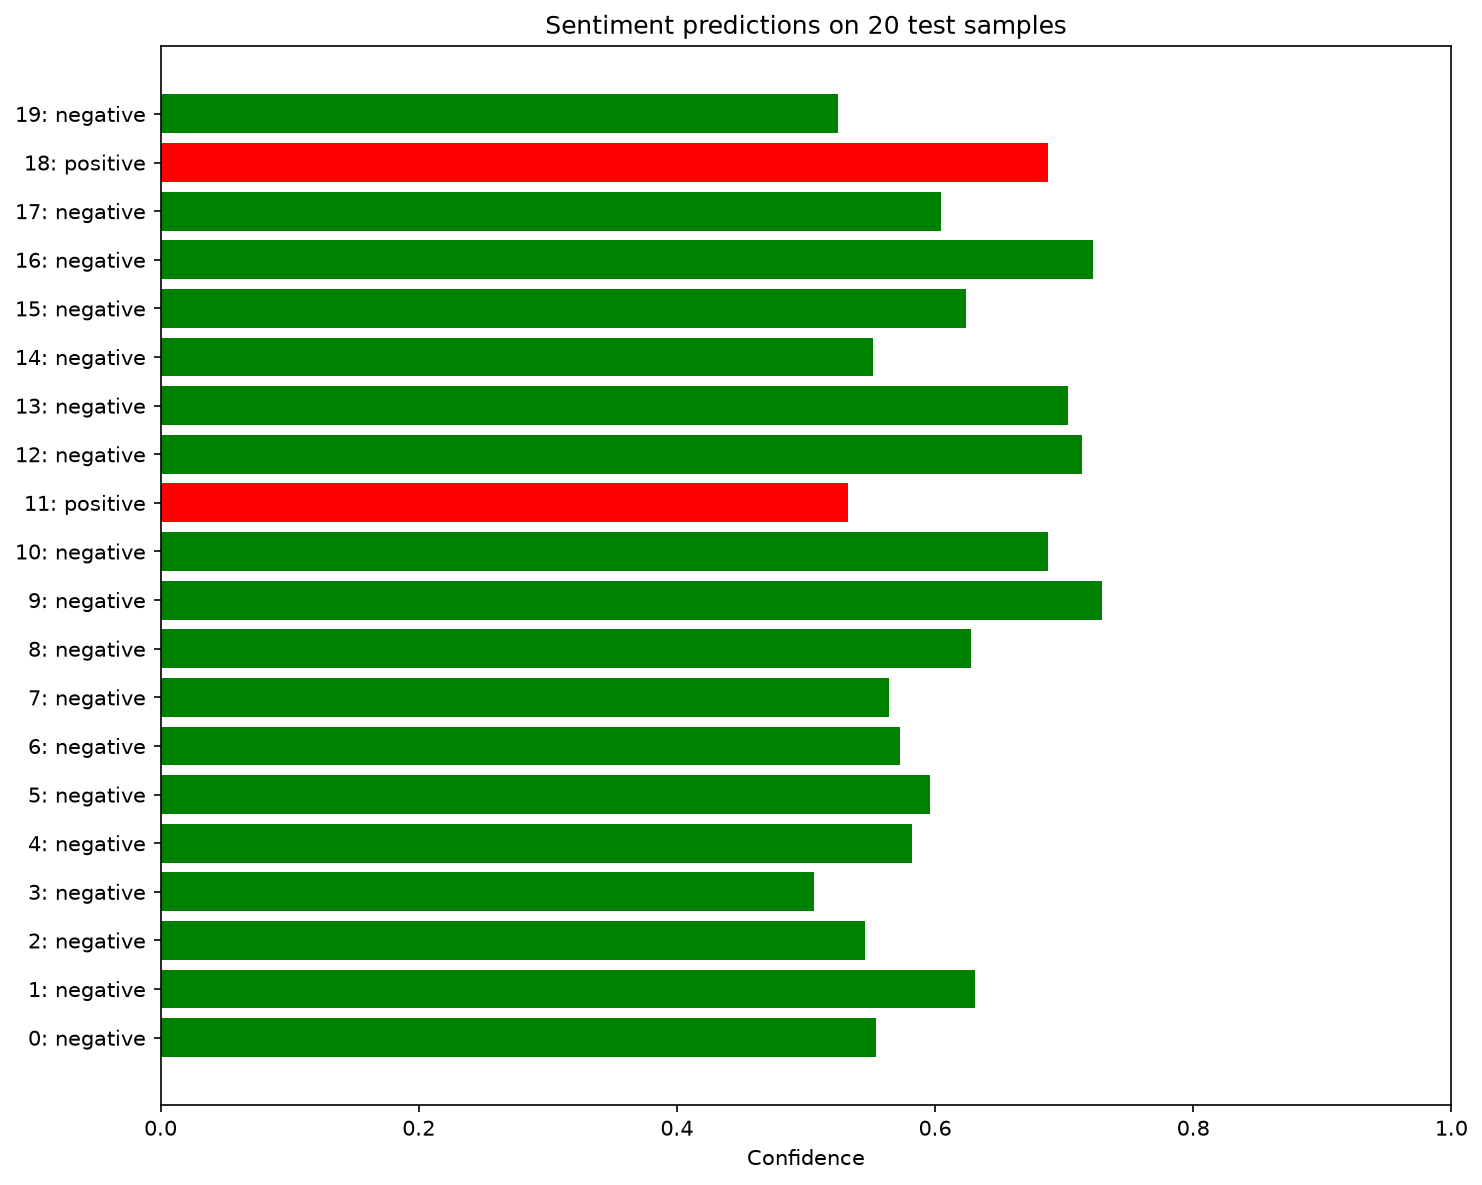
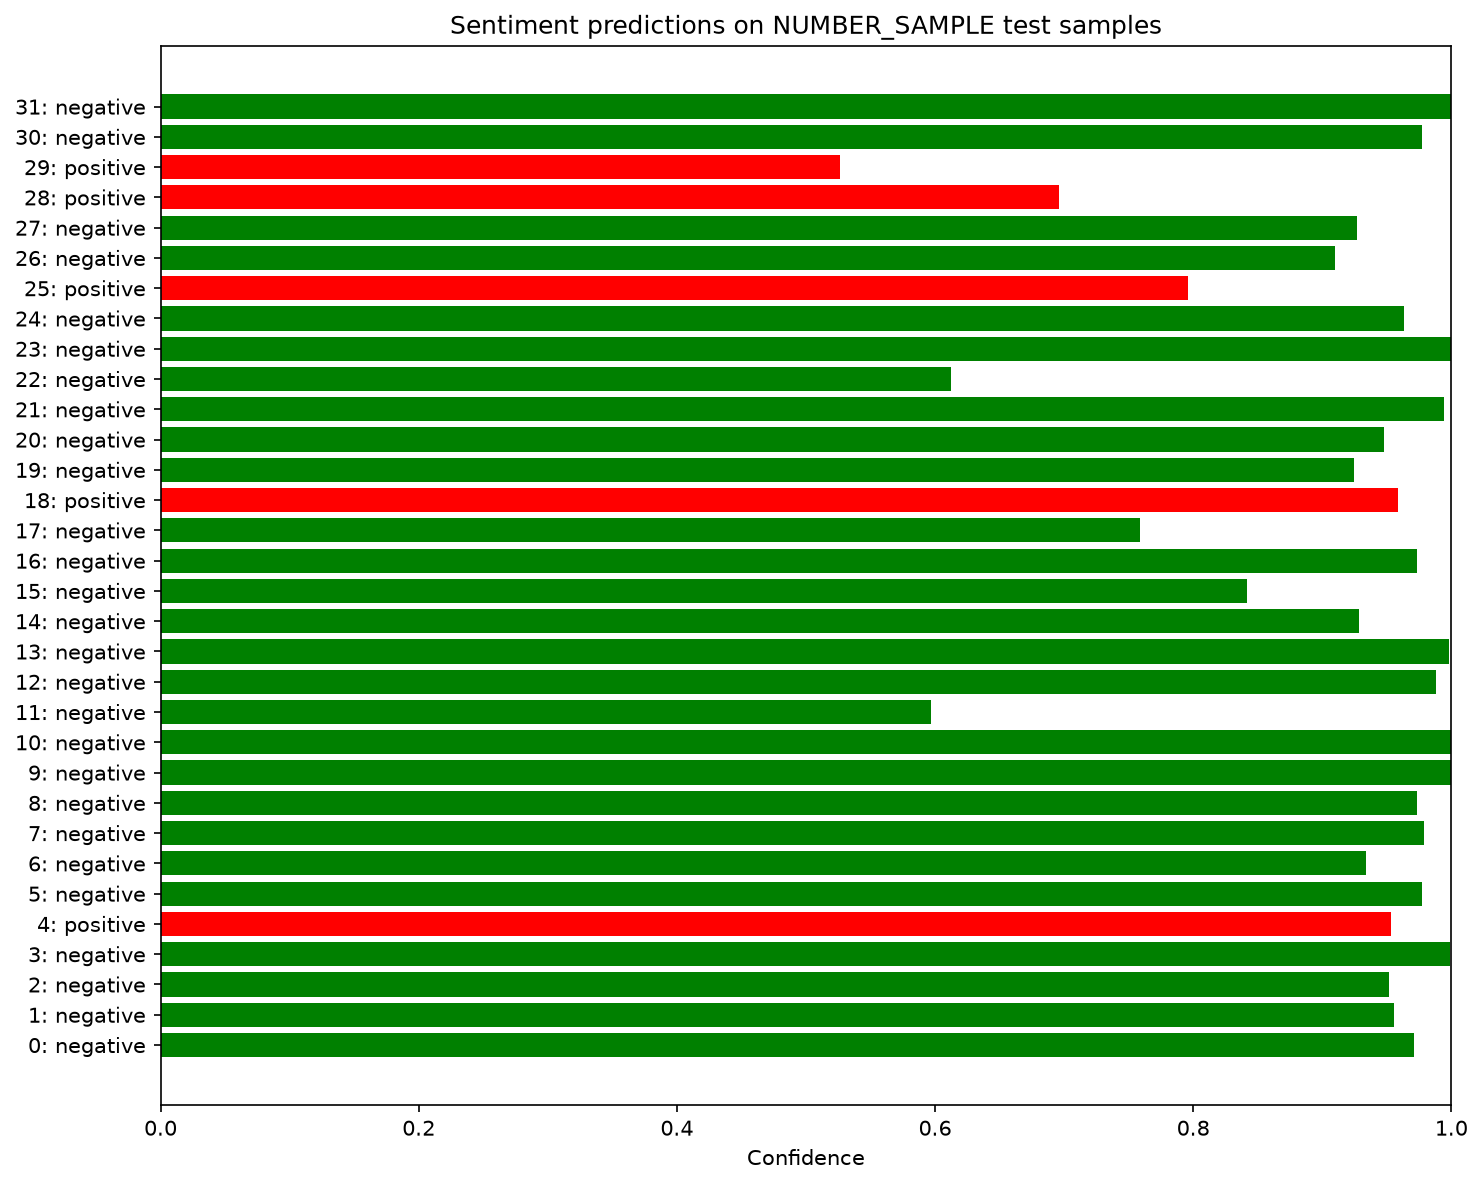
Refactor sentiment classifier documentation and inference visualization; update training script for improved logging and performance tracking

diff --git a/sentiment-classifier/train.py b/sentiment-classifier/train.py
@@ -1,4 +1,5 @@
 from pathlib import Path
+import time
 
 from data import get_sentiment_loaders
 from model import SentimentClassifier
@@ -9,6 +10,7 @@ from evaluate import evaluate
 
 MODEL_DIR = Path(__file__).parent / "models"
 MODEL_PATH = MODEL_DIR / "sentiment-classifer.pt"
+EPOCHS = 10
 
 def device_info():
     device = "cpu"
@@ -25,7 +27,6 @@ def device_info():
 
 def train_one_epoch(model, train_loader, loss_fn, optimizer, device):
     total_loss = 0
-    print("Debug")
     model.train()
 
     for input_ids, labels in tqdm(train_loader):
@@ -58,23 +59,44 @@ def main():
     model = model.to(device)
     loss_fn = nn.CrossEntropyLoss()
     optimizer = torch.optim.Adam(model.parameters(), lr=0.001)
-    
-    avg_loss = train_one_epoch(
-			model,
-			train_loader,
-			loss_fn,
-			optimizer,
-			device
-		)
-    
-    val_loss, val_accuracy = evaluate(model, val_loader, loss_fn, device)
 
-    print(
-		f"Train Loss: {avg_loss:.4f}, "
-		f"Val Loss: {val_loss:.4f}, "
-		f"Val Accuracy: {val_accuracy:.4f}"
+    start_time = time.time()
+    print("Starting training loop...")
+    for epoch in range(EPOCHS):
+    
+        avg_loss = train_one_epoch(
+                model,
+                train_loader,
+                loss_fn,
+                optimizer,
+                device
+            )
+    
+        val_loss, val_accuracy = evaluate(model, val_loader, loss_fn, device)
+
+        print(
+            f"Epoch [{epoch+1}/{EPOCHS}] "
+            f"Train Loss: {avg_loss:.4f}, "
+            f"Val Loss: {val_loss:.4f}, "
+            f"Val Accuracy: {val_accuracy:.4f}"
+        )
+    
+    print("Training complete!")
+    print(f"Total training time: {time.time() - start_time:.2f} seconds")
+    print("Evaluating on test set...")
+
+    test_loss, test_accuracy = evaluate(
+		model,
+		test_loader,
+		loss_fn,
+		device
 	)
     
+    print(
+		f"Test Loss: {test_loss:.4f}, "
+		f"Test Accuracy: {test_accuracy:.4f}"
+	)
+
     MODEL_DIR.mkdir(exist_ok=True)
     torch.save(model.state_dict(), MODEL_PATH)
 

diff --git a/sentiment-classifier/inference.py b/sentiment-classifier/inference.py
@@ -19,6 +19,7 @@ model.load_state_dict(torch.load(MODEL_PATH, map_location="cpu"))
 model.eval()
 
 label_names = ["negative", "positive"]
+NUMBER_SAMPLE = 32
 
 # 1. Run all test data for accuracy
 total_correct = 0
@@ -36,10 +37,10 @@ with torch.no_grad():
 test_accuracy = total_correct / total_samples
 print(f"Test Accuracy: {test_accuracy:.4f}")
 
-# 2. Visualize only 20 samples
+# 2. Visualize only NUMBER_SAMPLE samples
 visual_input_ids, visual_labels = next(iter(test_loader))
-visual_input_ids = visual_input_ids[:20]
-visual_labels = visual_labels[:20]
+visual_input_ids = visual_input_ids[:NUMBER_SAMPLE]
+visual_labels = visual_labels[:NUMBER_SAMPLE]
 
 with torch.no_grad():
     visual_logits = model(visual_input_ids)
@@ -48,27 +49,27 @@ with torch.no_grad():
 
 raw_texts = [
     test_loader.dataset.data[i]["text"]
-    for i in range(20)
+    for i in range(NUMBER_SAMPLE)
 ]
 
 colors = [
     "green" if visual_predictions[i].item() == visual_labels[i].item() else "red"
-    for i in range(20)
+    for i in range(NUMBER_SAMPLE)
 ]
 
 confidences = [
     visual_probabilities[i, visual_predictions[i]].item()
-    for i in range(20)
+    for i in range(NUMBER_SAMPLE)
 ]
 
 titles = [
     f"{i}: {label_names[visual_predictions[i].item()]}"
-    for i in range(20)
+    for i in range(NUMBER_SAMPLE)
 ]
 
 report_lines = []
 
-for i in range(20):
+for i in range(NUMBER_SAMPLE):
     true_label = label_names[visual_labels[i].item()]
     predicted_label = label_names[visual_predictions[i].item()]
     confidence = confidences[i]
@@ -82,13 +83,13 @@ for i in range(20):
         f"Confidence: {confidence:.4f}\n"
     )
 
-    print(sample_report)
+    # print(sample_report)
     report_lines.append(sample_report)
 
 plt.figure(figsize=(10, 8))
 plt.barh(titles, confidences, color=colors)
 plt.xlabel("Confidence")
-plt.title("Sentiment predictions on 20 test samples")
+plt.title("Sentiment predictions on NUMBER_SAMPLE test samples")
 plt.xlim(0, 1)
 plt.tight_layout()
 OUTPUT_DIR.mkdir(exist_ok=True)

diff --git a/sentiment-classifier/Readme.md b/sentiment-classifier/Readme.md
@@ -1,3 +1,16 @@
+## Objective
+
+Build a movie review sentiment classifier that outputs Positive/Negative with probability.
+
+Works:
+- [x] Load dataset - IMDb Reviews (Hugging Face): https://huggingface.co/datasets/stanfordnlp/imdb
+- [x] Tokenization, vocabuluary, embedding
+- [x] Network
+- [x] Train - Val - Test
+- [x] Inference
+- [] Optimize - Architect, Train Loop, ...
+
+
 ## Commands
 
 Train the model:
@@ -10,4 +23,26 @@ Run inference and save the prediction image:
 
 ```bash
 uv run --package sentiment-classifier python sentiment-classifier/inference.py
+```
+
+## Experiment tracks
+#### 24-06-2026: Train with more epochs:
+- 1 epoch
+```
+Train Loss: 0.6580, Val Loss: 0.5904, Val Accuracy: 0.7832
+Test Accuracy: 0.7667
+```
+
+- 5 epocs
+```text
+Train Loss: 0.2730, Val Loss: 0.3034, Val Accuracy: 0.8904
+Total training time: 437.59 seconds
+Test Accuracy: 0.8783
+```
+
+- 10 epocs
+```text
+Train Loss: 0.2730, Val Loss: 0.3034, Val Accuracy: 0.8904
+Total training time: 437.59 seconds
+Test Accuracy: 0.8783
 ```